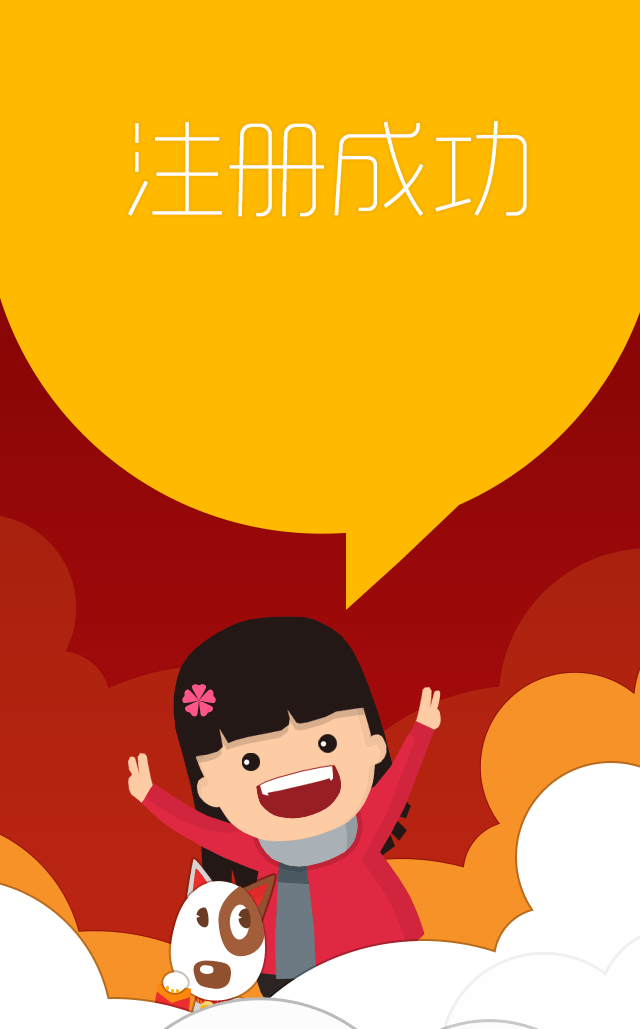
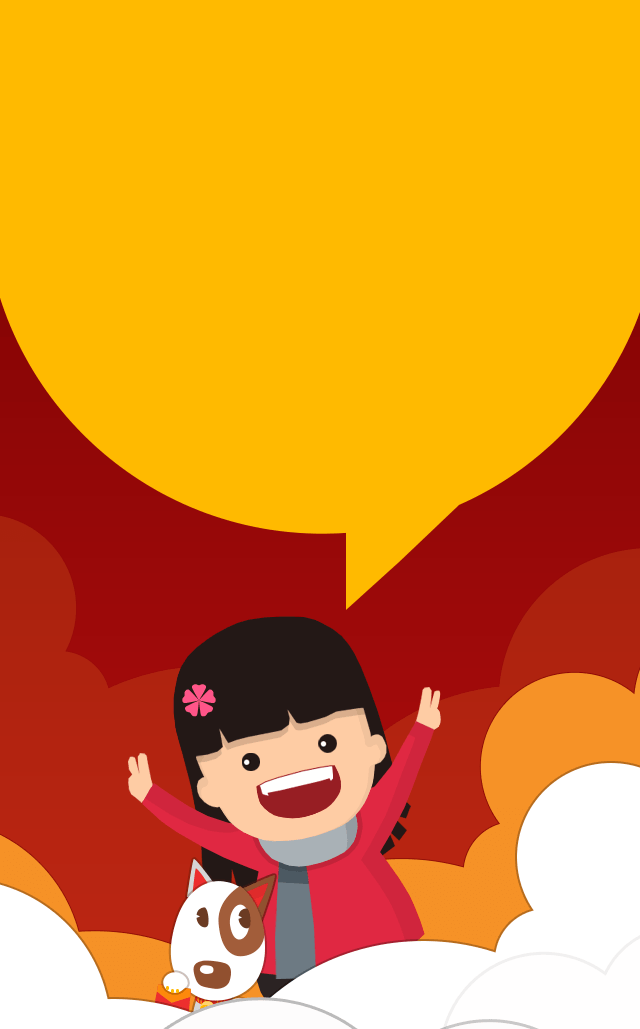
注册完成的界面

diff --git a/wangcai_iOS/wangcai/controller/PhoneValidationController.m b/wangcai_iOS/wangcai/controller/PhoneValidationController.m
@@ -56,7 +56,11 @@
         self->_timer = nil;
         self->_viewInputNum = [[[NSBundle mainBundle] loadNibNamed:@"PhoneValidationController" owner:self options:nil] objectAtIndex:2];
         self->_viewCheckNum = [[[NSBundle mainBundle] loadNibNamed:@"PhoneValidationController" owner:self options:nil] objectAtIndex:1];
-        self->_viewRegSuccess = [[[NSBundle mainBundle] loadNibNamed:@"PhoneValidationController" owner:self options:nil] objectAtIndex:3];
+        if ( DEVICE_IS_IPHONE5 ) {
+            self->_viewRegSuccess = [[[NSBundle mainBundle] loadNibNamed:@"PhoneValidationController" owner:self options:nil] objectAtIndex:3];
+        } else {
+            self->_viewRegSuccess = [[[NSBundle mainBundle] loadNibNamed:@"PhoneValidationController" owner:self options:nil] objectAtIndex:4];
+        }
         
         CGRect rect = CGRectMake( 0.0f, 134.0f, self->_viewInputNum.frame.size.width, self->_viewInputNum.frame.size.height);
         _viewInputNum.frame = rect;

diff --git a/wangcai_iOS/wangcai/model/Config.h b/wangcai_iOS/wangcai/model/Config.h
@@ -29,7 +29,7 @@
 
 
 
-#define TEST 1
+#define TEST 0
 
 #if TEST == 0
 #define HTTP_LOGIN_AND_REGISTER @"https://ssl.getwangcai.com/0/register"
